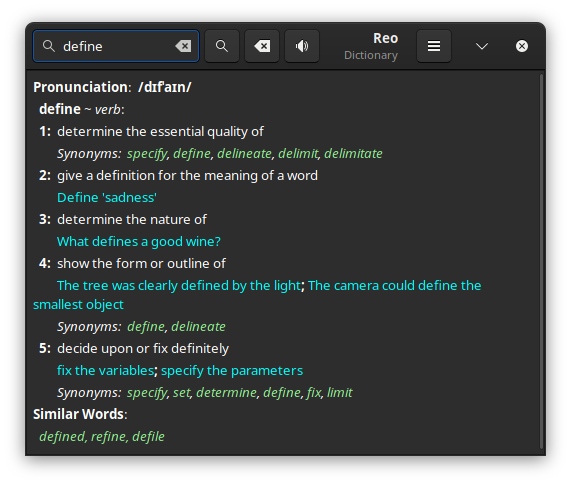
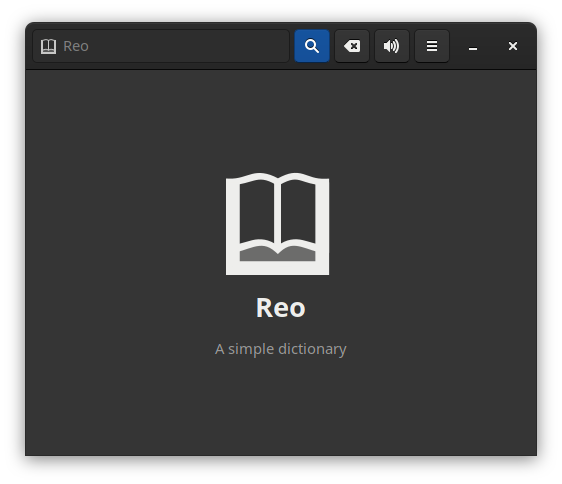
[GTK] Improved UI
- The UI should now be decently good-looking without unnecessary frills
 - Default to Dark mode
 - Fix a minor bug where UI was not refreshed when exiting preferences
 - Update screenshots

diff --git a/reo/gtk/window.py b/reo/gtk/window.py
@@ -16,13 +16,13 @@ class ReoGtkWindow(Gtk.ApplicationWindow):
 
     _clear_button = Gtk.Template.Child('clear_button')
     _def_view = Gtk.Template.Child('def_view')
+    _header_bar = Gtk.Template.Child('header_bar')
+    _menu_button = Gtk.Template.Child('reo_menu_button')
     _search_entry = Gtk.Template.Child('search_entry')
     _search_button = Gtk.Template.Child('search_button')
     _speak_button = Gtk.Template.Child('speak_button')
-    _menu_button = Gtk.Template.Child('reo_menu_button')
-    _header_bar = Gtk.Template.Child('header_bar')
+    _stack = Gtk.Template.Child('main_stack')
 
-    _term = None
     _searched_term = None
     _wn_future = base.get_wn_file()
 
@@ -35,7 +35,7 @@ class ReoGtkWindow(Gtk.ApplicationWindow):
 
         popover = Gtk.Popover.new_from_model(self._menu_button, menu)
         self._menu_button.set_popover(popover)
-        self._search_entry.grab_focus()
+        self._search_button.grab_focus()
 
         self.connect("notify::is-maximized", self._on_window_state_changed)
         self.connect("key-press-event", self._on_key_press_event)
@@ -107,6 +107,7 @@ class ReoGtkWindow(Gtk.ApplicationWindow):
         """Clear all text in the window."""
         self._def_view.get_buffer().set_text("")
         self._search_entry.set_text("")
+        self._stack.set_visible_child_name('welcome_page')
 
     def _on_key_press_event(self, _widget, event):
         """Focus onto the search entry when needed (quick search)."""
@@ -122,10 +123,16 @@ class ReoGtkWindow(Gtk.ApplicationWindow):
     def _on_preferences_destroy(self, _window):
         """Refresh view when Preferences window is closed. Only necessary for definition now."""
         if self._searched_term:
-            self._on_search_press(pass_check=True)
+            self._on_search_clicked(pass_check=True)
 
     def _on_search_clicked(self, _button=None, pass_check=False):
         """Pass data to search function and set TextView data."""
+        def page_switch(page):
+            if self._stack.get_visible_child_name == page:
+                return True
+            self._stack.set_visible_child_name(page)
+            return False
+
         if pass_check:
             text = self._searched_term
         else:
@@ -134,7 +141,10 @@ class ReoGtkWindow(Gtk.ApplicationWindow):
         if pass_check or not text == self._searched_term or text in except_list:
             self._def_view.get_buffer().set_text("")
             self._searched_term = text
-            if not text.strip() == '':
+            if text.strip() == '':
+                page_switch('welcome_page')
+            else:
+                page_switch('content_page')
                 last_iter = self._def_view.get_buffer().get_end_iter()
                 out = self.__search(text)
                 if out is not None:
@@ -218,10 +228,11 @@ class ReoGtkWindow(Gtk.ApplicationWindow):
             text = text.replace(item, '')
         if not text == '' and not text.isspace():
             return self.__reactor(text)
-        self.__new_error(
-            "Invalid Input",
-            "Reo thinks that your input was actually just a bunch of useless characters. "
-            "And so, an 'Invalid Characters' error."
-        )
+        if not Settings.get().live_search:
+            self.__new_error(
+                "Invalid Input",
+                "Reo thinks that your input was actually just a bunch of useless characters. "
+                "And so, an 'Invalid Characters' error."
+            )
         self._searched_term = None
         return None

diff --git a/reo/settings.py b/reo/settings.py
@@ -19,8 +19,8 @@ class Settings:
                 'ConfigVersion': '1',
             }
             self.config['UI-gtk'] = {
-                'DarkUI': 'no',
-                'DarkFont': 'no',
+                'DarkUI': 'yes',
+                'DarkFont': 'yes',
                 'HideWindowButtonsMaximized': 'no',
             }
             self.config['UI-qt'] = {

diff --git a/README.md b/README.md
@@ -2,9 +2,10 @@
 
 **Reo** is a dictionary application using the WordNet 3.1 (or 3.0) database for definitions and the reliable eSpeak for pronunciations (both audio and phoneme).
 
-Light Mode                             |  Dark Mode
-:-------------------------------------:|:-------------------------------------:
-![Light Mode](images/ss.png?raw=true)  |  ![Dark Mode](images/ss1.png?raw=true)
+Light Mode                                 |  Dark Mode
+:-----------------------------------------:|:--------------------------------------------:
+![Welcome screen](images/ss.png?raw=true)  |  ![Welcome screen](images/ss1.png?raw=true)
+![Searching](images/ss2.png?raw=true)  |  ![Searching](images/ss3.png?raw=true)
 
 ## Requirements
 
